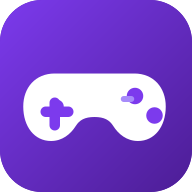
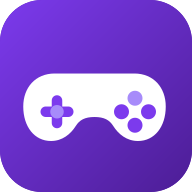
Melhorias no visual e melhorando samba da fruta

Changed region(s): [[0.5938, 0.4375, 0.875, 0.7188], [0.25, 0.4688, 0.3438, 0.6875]]

diff --git a/jogos/samba-da-fruta/test-bombas.js b/jogos/samba-da-fruta/test-bombas.js
@@ -1,0 +1,253 @@
+/* Testes das bombas (linha / coluna / 3x3) do Samba da Fruta.
+ *
+ * Rodar:  node test-bombas.js
+ *
+ * Carrega o index.html num sandbox Node (vm) com DOM fake e testa a
+ * função REAL `cascade()` do jogo — sem browser, sem canvas.
+ */
+"use strict";
+const fs = require("fs");
+const path = require("path");
+const vm = require("vm");
+
+const html = fs.readFileSync(path.join(__dirname, "index.html"), "utf8");
+const m = html.match(/<script>([\s\S]*?)<\/script>/);
+if (!m) throw new Error("script não encontrado no index.html");
+
+// RNG determinístico (mesma sequência toda vez que rodar)
+let seed = 987654321;
+const MathFake = Object.create(Math);
+MathFake.random = function () {
+  seed = (seed * 1664525 + 1013904223) >>> 0;
+  return seed / 4294967296;
+};
+
+const sandbox = {
+  console,
+  __SAMBATEST: true,
+  performance: { now: () => 0 },
+  requestAnimationFrame: () => 0,
+  localStorage: { getItem: () => null, setItem: () => {} },
+  Math: MathFake,
+  document: {
+    getElementById: function () {
+      return {
+        width: 512, height: 704,
+        addEventListener: function () {},
+        getContext: function () { return {}; }
+      };
+    }
+  }
+};
+sandbox.window = sandbox;
+vm.createContext(sandbox);
+vm.runInContext(m[1], sandbox, { filename: "samba-da-fruta.js" });
+
+const api = sandbox.__samba;
+if (!api) throw new Error("hook de teste (__SAMBATEST) não encontrado no jogo");
+
+// ---------------- helpers ----------------
+const GRID = 8;
+// padrão base sem trios: horizontal difere em 1, vertical difere em 2 (mod 5)
+function base(x, y) { return (x + 2 * y) % 5; }
+
+function buildBoard(overrides) {
+  const g = [];
+  for (let y = 0; y < GRID; y++) {
+    g[y] = [];
+    for (let x = 0; x < GRID; x++) g[y][x] = api.newPiece(base(x, y), y, x);
+  }
+  for (const o of overrides) {
+    const x = o[0], y = o[1], t = o[2], opts = o[3];
+    g[y][x] = api.newPiece(t, y, x, opts);
+  }
+  return g;
+}
+
+function runsOf() {
+  return api.findRuns().map(r =>
+    r.h ? "h y=" + r.y + " x=" + r.x + " n=" + r.n
+        : "v x=" + r.x + " y=" + r.y + " n=" + r.n
+  ).sort();
+}
+function expectRuns(expected, label) {
+  const got = runsOf().join("|");
+  const exp = expected.slice().sort().join("|");
+  if (got !== exp) throw new Error("setup " + label + ": runs " + got + " (esperado " + exp + ")");
+}
+
+function isPopped(g, x, y) { const p = g[y] && g[y][x]; return !!(p && p.pop); }
+function rowPopped(g, y) { for (let x = 0; x < GRID; x++) if (!isPopped(g, x, y)) return false; return true; }
+function colPopped(g, x) { for (let y = 0; y < GRID; y++) if (!isPopped(g, x, y)) return false; return true; }
+function poppedSet(g) {
+  const s = {};
+  for (let y = 0; y < GRID; y++) for (let x = 0; x < GRID; x++) if (isPopped(g, x, y)) s[x + "," + y] = 1;
+  return s;
+}
+function sameSet(a, b) {
+  const ka = Object.keys(a).sort(), kb = Object.keys(b).sort();
+  return ka.length === kb.length && ka.every((k, i) => k === kb[i]);
+}
+function lineSet(y) { const s = {}; for (let x = 0; x < GRID; x++) s[x + "," + y] = 1; return s; }
+function colSet(x) { const s = {}; for (let y = 0; y < GRID; y++) s[x + "," + y] = 1; return s; }
+function union(a, b) { const s = Object.assign({}, a); for (const k in b) s[k] = 1; return s; }
+
+// ---------------- runner ----------------
+let pass = 0, fail = 0;
+function test(name, fn) {
+  try { fn(); pass++; console.log("PASS  " + name); }
+  catch (e) { fail++; console.log("FAIL  " + name + "\n      " + e.message); }
+}
+
+// ---------------- cenários ----------------
+
+test("bomba de linha (trio): explode a linha inteira, só ela", () => {
+  const g0 = buildBoard([
+    [1, 2, 3], [6, 2, 3],
+    [2, 2, 0], [3, 2, 0, { isB: "row" }], [4, 2, 0]
+  ]);
+  api.setGrid(g0);
+  expectRuns(["h y=2 x=2 n=3"], "bomba de linha");
+  api.cascade(1);
+  const g = api.getGrid();
+  if (!rowPopped(g, 2)) throw new Error("linha 2 não foi toda limpa");
+  if (Object.keys(poppedSet(g)).length !== 8) throw new Error("limparam células fora da linha");
+});
+
+test("bomba de coluna (trio): explode a coluna inteira, só ela", () => {
+  const g0 = buildBoard([
+    [3, 1, 3],
+    [3, 2, 0], [3, 3, 0, { isB: "col" }], [3, 4, 0]
+  ]);
+  api.setGrid(g0);
+  expectRuns(["v x=3 y=2 n=3"], "bomba de coluna");
+  api.cascade(1);
+  const g = api.getGrid();
+  if (!colPopped(g, 3)) throw new Error("coluna 3 não foi toda limpa");
+  if (Object.keys(poppedSet(g)).length !== 8) throw new Error("limparam células fora da coluna");
+});
+
+test("bomba de linha na borda esquerda: linha inteira explode", () => {
+  const g0 = buildBoard([
+    [0, 4, 0, { isB: "row" }], [1, 4, 0], [2, 4, 0]
+  ]);
+  api.setGrid(g0);
+  expectRuns(["h y=4 x=0 n=3"], "bomba na borda");
+  api.cascade(1);
+  const g = api.getGrid();
+  if (!rowPopped(g, 4)) throw new Error("linha 4 (borda) não foi toda limpa");
+  if (Object.keys(poppedSet(g)).length !== 8) throw new Error("limparam células fora da linha");
+});
+
+test("dois trios? não — dois tipos de bomba no MESMO trio: as duas explodem", () => {
+  const g0 = buildBoard([
+    [5, 5, 1],
+    [2, 5, 0, { isB: "row" }], [3, 5, 0], [4, 5, 0, { isB: "col" }]
+  ]);
+  api.setGrid(g0);
+  expectRuns(["h y=5 x=2 n=3"], "duas bombas no trio");
+  api.cascade(1);
+  const g = api.getGrid();
+  const exp = union(lineSet(5), colSet(4)); // linha 5 + coluna 4
+  if (!sameSet(poppedSet(g), exp))
+    throw new Error("pop = " + Object.keys(poppedSet(g)).sort() + " esperado " + Object.keys(exp).sort());
+});
+
+test("CADEIA: bomba de linha atinge bomba de coluna na linha → coluna dela explode", () => {
+  const g0 = buildBoard([
+    [1, 3, 0], [2, 3, 0, { isB: "row" }], [3, 3, 0],
+    [4, 3, 2], [6, 3, 2, { isB: "col" }]
+  ]);
+  api.setGrid(g0);
+  expectRuns(["h y=3 x=1 n=3"], "cadeia linha+coluna");
+  api.cascade(1);
+  const g = api.getGrid();
+  if (!rowPopped(g, 3)) throw new Error("linha 3 não foi toda limpa");
+  if (!colPopped(g, 6)) throw new Error("bomba de coluna em (6,3) atingida pela linha não explodiu sua coluna");
+  const exp = union(lineSet(3), colSet(6));
+  if (!sameSet(poppedSet(g), exp))
+    throw new Error("pop = " + Object.keys(poppedSet(g)).sort() + " esperado " + Object.keys(exp).sort());
+});
+
+test("CADEIA: bomba 3x3 atinge bomba de coluna → coluna dela explode", () => {
+  const g0 = buildBoard([
+    [2, 3, 0], [3, 3, 0, { isB: "blast" }], [4, 3, 0],
+    [4, 2, 3, { isB: "col" }]
+  ]);
+  api.setGrid(g0);
+  expectRuns(["h y=3 x=2 n=3"], "cadeia blast+coluna");
+  api.cascade(1);
+  const g = api.getGrid();
+  if (!colPopped(g, 4)) throw new Error("bomba de coluna em (4,2) atingida pelo blast 3x3 não explodiu sua coluna");
+  const blast = {};
+  for (let y = 2; y <= 4; y++) for (let x = 2; x <= 4; x++) blast[x + "," + y] = 1;
+  const exp = union(blast, colSet(4));
+  if (!sameSet(poppedSet(g), exp))
+    throw new Error("pop = " + Object.keys(poppedSet(g)).sort() + " esperado " + Object.keys(exp).sort());
+});
+
+test("bomba 3x3 no canto: só as 5 células válidas (recorte pela borda)", () => {
+  const g0 = buildBoard([
+    [0, 0, 0, { isB: "blast" }], [1, 0, 0], [2, 0, 0]
+  ]);
+  api.setGrid(g0);
+  expectRuns(["h y=0 x=0 n=3"], "blast no canto");
+  api.cascade(1);
+  const g = api.getGrid();
+  const exp = { "0,0": 1, "1,0": 1, "2,0": 1, "0,1": 1, "1,1": 1 };
+  if (!sameSet(poppedSet(g), exp))
+    throw new Error("pop = " + Object.keys(poppedSet(g)).sort() + " esperado " + Object.keys(exp).sort());
+});
+
+test("quarteto SEM bomba: cria 1 bomba (row/col) e limpa só o quarteto", () => {
+  const g0 = buildBoard([
+    [2, 1, 0], [3, 1, 0], [4, 1, 0], [5, 1, 0]
+  ]);
+  api.setGrid(g0);
+  expectRuns(["h y=1 x=2 n=4"], "quarteto");
+  api.cascade(1);
+  const g = api.getGrid();
+  if (Object.keys(poppedSet(g)).length !== 4) throw new Error("deveria limpar só as 4 células do quarteto");
+  const data = api.animData();
+  if (!data.creates || data.creates.length !== 1) throw new Error("deveria criar exatamente 1 bomba");
+  const c = data.creates[0];
+  if (c.y !== 1 || c.x < 2 || c.x > 5) throw new Error("bomba fora do quarteto: " + c.x + "," + c.y);
+  if (c.isB !== "row" && c.isB !== "col") throw new Error("tipo inesperado: " + c.isB);
+  api.onPopDone();
+  const g2 = api.getGrid();
+  if (!g2[1][c.x] || g2[1][c.x].isB !== c.isB) throw new Error("bomba criada não apareceu no tabuleiro");
+});
+
+test("bomba dentro de quarteto: explode a linha/coluna E vira a bomba nova", () => {
+  const g0 = buildBoard([
+    [2, 3, 0], [3, 3, 0], [4, 3, 0], [5, 3, 0, { isB: "col" }]
+  ]);
+  // força a criação de bomba na célula da bomba existente: (0.9 * 4) | 0 = 3
+  const origRandom = sandbox.Math.random;
+  sandbox.Math.random = () => 0.9;
+  try {
+    api.setGrid(g0);
+    expectRuns(["h y=3 x=2 n=4"], "quarteto com bomba");
+    api.cascade(1);
+  } finally { sandbox.Math.random = origRandom; }
+  const g = api.getGrid();
+  const data = api.animData();
+  const c = data.creates && data.creates[0];
+  if (!c || c.x !== 5 || c.y !== 3) throw new Error("premissa: bomba nova deveria nascer em (5,3)");
+  if (!colPopped(g, 5))
+    throw new Error("bomba em (5,3) foi substituída sem explodir sua coluna (nada explodiu)");
+  const expected = colSet(5); for (let x = 2; x <= 4; x++) expected[x + ",3"] = 1;
+  if (!sameSet(poppedSet(g), expected))
+    throw new Error("pop = " + Object.keys(poppedSet(g)).sort() + " esperado " + Object.keys(expected).sort());
+  api.onPopDone();
+  const g2 = api.getGrid();
+  // a coluna 5 inteira foi limpa pela própria bomba: a bomba nova nasce lá e
+  // cai até o fundo por gravidade — ela só precisa existir na coluna
+  let found = false;
+  for (let y = 0; y < GRID; y++) if (g2[y][5] && g2[y][5].isB) found = true;
+  if (!found) throw new Error("bomba nova não apareceu na coluna 5");
+});
+
+// ---------------- resumo ----------------
+console.log("\n" + pass + " passaram, " + fail + " falharam.");
+process.exit(fail ? 1 : 0);

diff --git a/jogos/samba-da-fruta/index.html b/jogos/samba-da-fruta/index.html
@@ -438,24 +438,48 @@
       }
     });
 
-    // bombas destruídas: além de limparem, rendem pontos extras
+    // bombas destruídas: além de limparem, rendem pontos extras.
+    // Cascata: bomba atingida pela explosão de outra também detona
+    // (fila de bombas, cada uma explode no máximo 1 vez).
+    var bombQueue = [];
     Object.keys(clear).forEach(function (key) {
-      var xy = key.split(","), x = +xy[0], y = +xy[1];
-      var p = grid[y][x];
-      if (!p.isB || creates[key]) return;
-      var pts = p.isB === "blast" ? 200 : 120;
-      ptsTotal += pts;
-      addFloat("+" + pts + " 💥", cellCenter(x, y).x, cellCenter(x, y).y - 14);
-      if (p.isB === "row") for (var c = 0; c < GRID; c++) bombClear[c + "," + y] = 1;
-      if (p.isB === "col") for (var r = 0; r < GRID; r++) bombClear[x + "," + r] = 1;
-      if (p.isB === "blast") {
+      var cxy = key.split(",");
+      if (grid[+cxy[1]][+cxy[0]].isB) bombQueue.push(key);
+    });
+    var exploded = {};
+    while (bombQueue.length) {
+      var bkey = bombQueue.shift();
+      if (exploded[bkey]) continue;
+      exploded[bkey] = 1;
+      var bxy = bkey.split(","), bx = +bxy[0], by = +bxy[1];
+      var bp = grid[by][bx];
+      var bpts = bp.isB === "blast" ? 200 : 120;
+      ptsTotal += bpts;
+      addFloat("+" + bpts + " 💥", cellCenter(bx, by).x, cellCenter(bx, by).y - 14);
+      var hit = [];
+      if (bp.isB === "row") {
+        for (var hc = 0; hc < GRID; hc++) { var hk = hc + "," + by; bombClear[hk] = 1; hit.push(hk); }
+      }
+      if (bp.isB === "col") {
+        for (var hr = 0; hr < GRID; hr++) { var hk2 = bx + "," + hr; bombClear[hk2] = 1; hit.push(hk2); }
+      }
+      if (bp.isB === "blast") {
         for (var dy = -1; dy <= 1; dy++) for (var dx = -1; dx <= 1; dx++) {
-          var nx = x + dx, ny = y + dy;
-          if (nx >= 0 && ny >= 0 && nx < GRID && ny < GRID) bombClear[nx + "," + ny] = 1;
+          var nx = bx + dx, ny = by + dy;
+          if (nx >= 0 && ny >= 0 && nx < GRID && ny < GRID) {
+            var hk3 = nx + "," + ny;
+            bombClear[hk3] = 1; hit.push(hk3);
+          }
         }
         sfx.bomb();
       }
-    });
+      // bombas atingidas por essa explosão entram na fila
+      for (var hi = 0; hi < hit.length; hi++) {
+        var hxy = hit[hi].split(",");
+        var hp = grid[+hxy[1]][+hxy[0]];
+        if (hp.isB && !exploded[hit[hi]]) bombQueue.push(hit[hi]);
+      }
+    }
 
     score += ptsTotal;
     checkBankBonus();
@@ -1078,6 +1102,20 @@
     }
 
     if (state === "win" || state === "lose" || state === "victory") drawOverlay();
+  }
+
+  // -------- Gancho de teste (usado apenas por test-bombas.js em Node) --------
+  if (typeof globalThis !== "undefined" && globalThis.__SAMBATEST) {
+    globalThis.__samba = {
+      newPiece: newPiece,
+      newGame: newGame,
+      findRuns: findRuns,
+      cascade: cascade,
+      onPopDone: onPopDone,
+      setGrid: function (g) { grid = g; phase = "idle"; anim = { t: 0, dur: 0, data: null }; },
+      getGrid: function () { return grid; },
+      animData: function () { return anim.data; }
+    };
   }
 
   requestAnimationFrame(tick);

diff --git a/app.js b/app.js
@@ -28,24 +28,28 @@ async function init() {
   route();
 }
 
-/** Renderiza os chips de filtro de categoria (com "Todas"). */
+/**
+ * Renderiza os chips de filtro de categoria (com "Todas").
+ * Comportamento toggle: clicar num chip seleciona a categoria; clicar de novo
+ * desmarca. Sem nenhum chip selecionado, todos os jogos são mostrados.
+ */
 function renderCategoryFilters() {
   const wrap = document.getElementById("filter-categories");
   const categories = [...new Set(jogos.flatMap((j) => j.categorias ?? []))].sort();
   wrap.innerHTML = "";
 
-  const all = chip("Todas", true);
-  wrap.appendChild(all);
-  categories.forEach((c) => wrap.appendChild(chip(c)));
+  wrap.appendChild(chip("Todas", ""));
+  categories.forEach((c) => wrap.appendChild(chip(c, c)));
 
-  function chip(label, active = false) {
+  function chip(label, value) {
     const el = document.createElement("button");
-    el.className = "chip" + (active ? " active" : "");
+    el.className = "chip";
     el.textContent = label;
-    el.dataset.category = label === "Todas" ? "" : label;
+    el.dataset.category = value;
     el.addEventListener("click", () => {
+      const wasActive = el.classList.contains("active");
       wrap.querySelectorAll(".chip").forEach((c) => c.classList.remove("active"));
-      el.classList.add("active");
+      if (!wasActive) el.classList.add("active");
       applyFilters();
     });
     return el;
@@ -56,7 +60,7 @@ function renderCategoryFilters() {
 function applyFilters() {
   const name = document.getElementById("filter-name").value.trim().toLowerCase();
   const catEl = document.querySelector("#filter-categories .chip.active");
-  const category = catEl ? catEl.dataset.category : "";
+  const category = catEl ? catEl.dataset.category : ""; // vazio = todos os jogos
 
   const filtered = jogos.filter((j) => {
     const matchName = !name || j.nome.toLowerCase().includes(name);

diff --git a/sw.js b/sw.js
@@ -5,7 +5,7 @@
 // abrir cada um uma vez.
 
 // Aumente o valor a cada vez que o site mudar (novos jogos, css, etc.)
-const CACHE_VERSION = "v73";
+const CACHE_VERSION = "v75";
 const CACHE_NAME = `jogos-da-galera-${CACHE_VERSION}`;
 
 // Shell essencial: sem isso nada funciona
